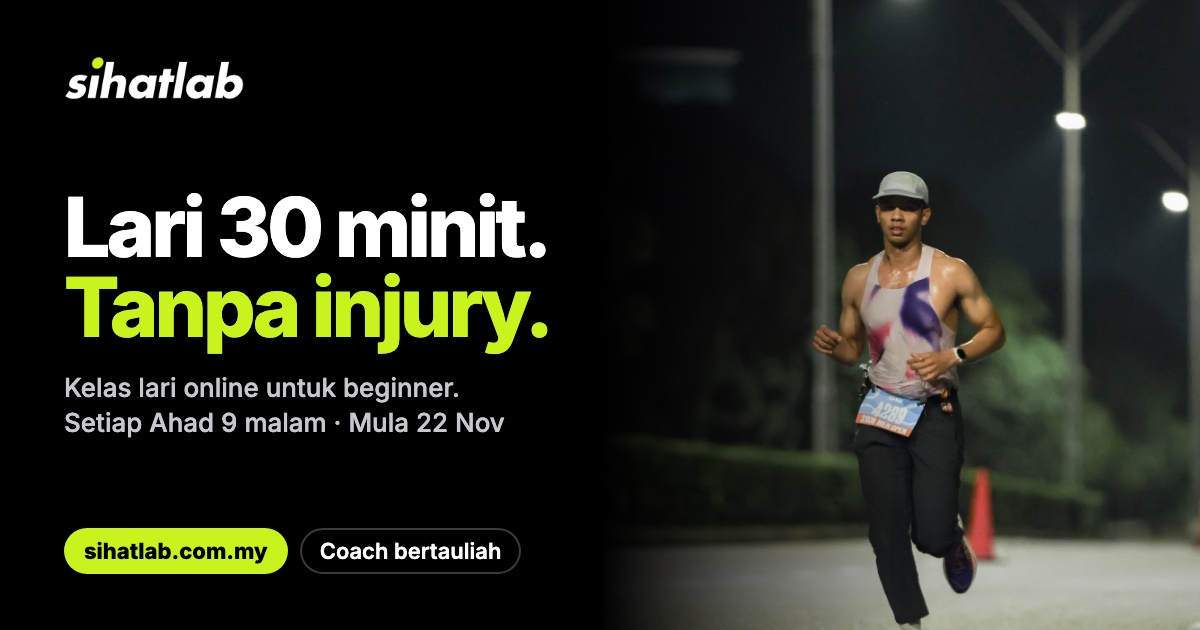
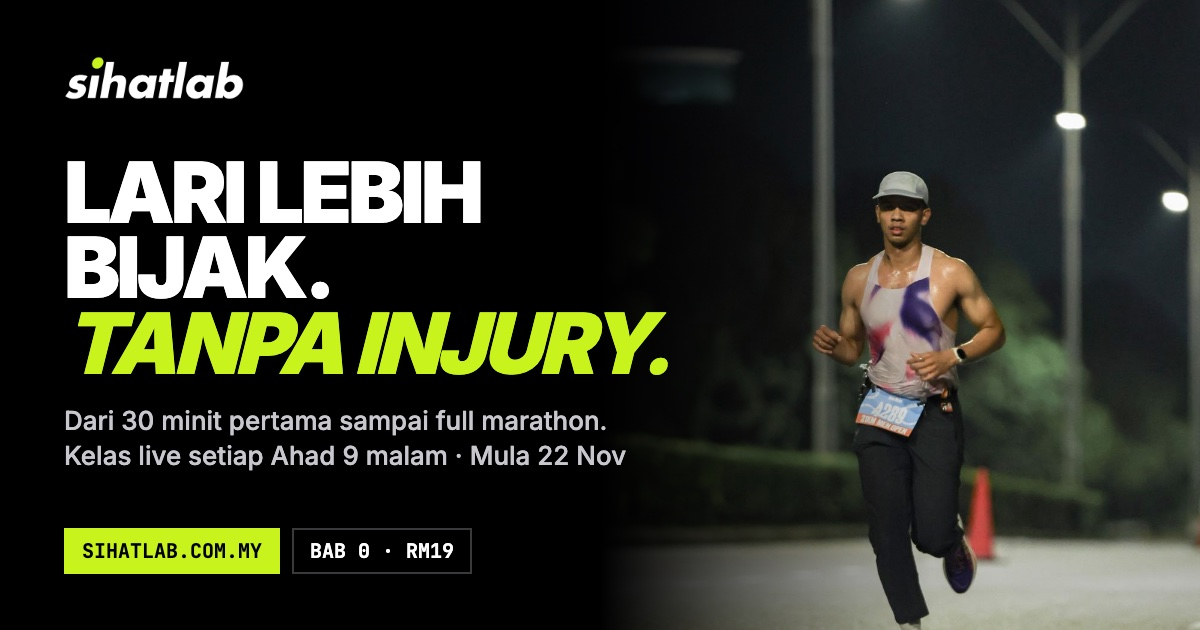
Pasaran lebih luas: Lari lebih bijak, dua pintu, kad untuk runner 10K-full

Changed region(s): [[0.0308, 0.2413, 0.555, 0.754], [0.0308, 0.8444, 0.4317, 0.9048]]

diff --git a/index.html b/index.html
@@ -3,14 +3,14 @@
 <head>
 <meta charset="utf-8">
 <meta name="viewport" content="width=device-width,initial-scale=1,viewport-fit=cover">
-<title>Kelas Lari SihatLab (Run 30) · Lari 30 minit, tanpa injury</title>
-<meta name="description" content="Kelas lari online untuk beginner. 8 kelas live setiap Ahad 9 malam, dari jalan laju ke lari 30 minit non-stop. Coach bertauliah World Athletics Level 1.">
+<title>Kelas Lari SihatLab (Run 30) · Lari lebih bijak, tanpa injury</title>
+<meta name="description" content="Kelas lari online untuk semua tahap, dari 30 minit pertama sampai full marathon. 8 kelas live setiap Ahad 9 malam: zon heart rate, MAF, VDOT, susun latihan, injury dan race. Coach World Athletics Level 1.">
 <meta property="og:title" content="Kelas Lari SihatLab (Run 30)">
-<meta property="og:description" content="Dari jalan laju ke lari 30 minit non-stop, tanpa injury. 8 kelas live online, setiap Ahad 9 malam.">
+<meta property="og:description" content="Lari lebih bijak, tanpa injury. Dari 30 minit pertama sampai full marathon. 8 kelas live online, setiap Ahad 9 malam.">
 <meta property="og:image" content="https://sihatlab.com.my/og.jpg">
 <meta property="og:image:width" content="1200">
 <meta property="og:image:height" content="630">
-<meta property="og:image:alt" content="Lari 30 minit. Tanpa injury. Kelas lari online SihatLab">
+<meta property="og:image:alt" content="Lari lebih bijak. Tanpa injury. Kelas lari online SihatLab">
 <meta name="twitter:card" content="summary_large_image">
 <link rel="apple-touch-icon" href="apple-touch-icon.png">
 <meta property="og:url" content="https://sihatlab.com.my/">
@@ -129,7 +129,7 @@ nav .btn{padding:8px 16px;font-size:14px}
 @media (max-width:860px){.kpis{grid-template-columns:repeat(2,minmax(0,1fr))}}
 
 /* audience */
-.who{display:grid;grid-template-columns:repeat(4,minmax(0,1fr));gap:16px;margin-top:48px}
+.who{display:grid;grid-template-columns:repeat(3,minmax(0,1fr));gap:16px;margin-top:48px}
 .who .card{padding:28px}
 .who h3{font-size:20px;font-weight:700;letter-spacing:-.02em;margin-top:28px}
 .who p{color:var(--grey);font-size:15px;margin-top:6px}
@@ -467,6 +467,13 @@ nav .btn{font-family:var(--mono);font-size:12px!important;text-transform:upperca
 .learn h3{grid-column:2;font-size:22px!important;font-weight:800!important}
 .learn .card > p:not(.when):not(.bab){grid-column:2}
 @media (max-width:720px){.learn .card{grid-template-columns:40px minmax(0,1fr);column-gap:12px}.learn .card::before{font-size:22px}.learn .when{grid-column:2;grid-row:auto;justify-self:start;font-size:13px!important}}
+/* hero doors */
+.hero .door{flex-direction:column;align-items:flex-start;gap:2px;padding:14px 20px}
+.hero .door small{font-family:var(--mono);font-size:11px;font-weight:500;text-transform:uppercase;letter-spacing:.04em;opacity:.8}
+.hero .door-o{background:transparent;color:#fff;border:1px solid #ffffff66}
+.hero .door-o:hover{border-color:var(--volt)}
+@media (max-width:860px){.who{grid-template-columns:repeat(2,minmax(0,1fr))!important}}
+@media (max-width:480px){.who{grid-template-columns:1fr!important}.hero .door{width:100%}}
 </style>
 </head>
 <body>
@@ -492,11 +499,11 @@ nav .btn{font-family:var(--mono);font-size:12px!important;text-transform:upperca
   <div class="photo" role="img" aria-label="Coach Dollah berlari dalam half marathon"></div>
   <div class="wrap">
     <span class="pill" data-en="Run 30 · Cohort 01 · Online · Sun 9pm · 22.11 → 17.01">Run 30 · Cohort 01 · Online · Ahad 9 malam · 22.11 → 17.01</span>
-    <h1 data-en="Run<br>30 minutes.<br><em>No<br>injuries.</em>">Lari<br>30 minit.<br><em>Tanpa<br>injury.</em></h1>
-    <p class="sub" data-en="You don’t need to be an athlete to start running. You don’t need an expensive watch. From walking to running your first 5K non-stop!">Tak perlu jadi athlete untuk start berlari. Tak perlu jam yang mahal. Dari berjalan ke first 5KM lari non stop!</p>
+    <h1 data-en="Run<br>smarter.<br><em>No<br>injuries.</em>">Lari<br>lebih bijak.<br><em>Tanpa<br>injury.</em></h1>
+    <p class="sub" data-en="Just starting out or already finished a full marathon, learn to run by a plan, not by feel. From your first 30 minutes to 42K.">Baru nak mula atau dah habis full marathon, belajar lari ikut pelan, bukan ikut rasa. Dari 30 minit pertama sampai 42KM.</p>
     <div style="display:flex;gap:16px;align-items:center;flex-wrap:wrap">
-      <a class="btn btn-w" href="#harga" data-en="Let’s start">Jom start</a>
-      <span style="color:var(--soft);font-size:15px" data-en="First class just RM19 · a free guideline with every ticket">Kelas pertama RM19 je · semua dapat guideline free</span>
+      <a class="btn btn-w door" href="#harga"><span data-en="New to running">Baru nak mula</span><small data-en="Chapter 0 · RM19">Bab 0 · RM19</small></a>
+      <a class="btn door door-o" href="#belajar"><span data-en="Already running">Dah lari, nak lebih bijak</span><small data-en="Chapters 1–7 · 5K to full">Bab 1–7 · 5K sampai full</small></a>
     </div>
     <div class="creds stats">
       <span><b>4.6/5</b><i data-en="from 19 students">dari 19 peserta</i></span>
@@ -507,7 +514,7 @@ nav .btn{font-family:var(--mono);font-size:12px!important;text-transform:upperca
   </div>
 </header>
 
-<div class="marquee" aria-hidden="true"><div class="mq-track"><span data-en="RUN 30 MINUTES ✱ NO INJURIES ✱ RUN 30 ✱ SUNDAYS 9PM ✱ STARTS 22 NOV ✱ ">LARI 30 MINIT ✱ TANPA INJURY ✱ RUN 30 ✱ SETIAP AHAD 9 MALAM ✱ MULA 22 NOV ✱ </span><span data-en="RUN 30 MINUTES ✱ NO INJURIES ✱ RUN 30 ✱ SUNDAYS 9PM ✱ STARTS 22 NOV ✱ ">LARI 30 MINIT ✱ TANPA INJURY ✱ RUN 30 ✱ SETIAP AHAD 9 MALAM ✱ MULA 22 NOV ✱ </span><span data-en="RUN 30 MINUTES ✱ NO INJURIES ✱ RUN 30 ✱ SUNDAYS 9PM ✱ STARTS 22 NOV ✱ ">LARI 30 MINIT ✱ TANPA INJURY ✱ RUN 30 ✱ SETIAP AHAD 9 MALAM ✱ MULA 22 NOV ✱ </span><span data-en="RUN 30 MINUTES ✱ NO INJURIES ✱ RUN 30 ✱ SUNDAYS 9PM ✱ STARTS 22 NOV ✱ ">LARI 30 MINIT ✱ TANPA INJURY ✱ RUN 30 ✱ SETIAP AHAD 9 MALAM ✱ MULA 22 NOV ✱ </span></div></div>
+<div class="marquee" aria-hidden="true"><div class="mq-track"><span data-en="RUN SMARTER ✱ NO INJURIES ✱ 5K ✱ 10K ✱ HALF ✱ FULL ✱ SUNDAYS 9PM ✱ STARTS 22 NOV ✱ ">LARI LEBIH BIJAK ✱ TANPA INJURY ✱ 5K ✱ 10K ✱ HALF ✱ FULL ✱ SETIAP AHAD 9 MALAM ✱ MULA 22 NOV ✱ </span><span data-en="RUN SMARTER ✱ NO INJURIES ✱ 5K ✱ 10K ✱ HALF ✱ FULL ✱ SUNDAYS 9PM ✱ STARTS 22 NOV ✱ ">LARI LEBIH BIJAK ✱ TANPA INJURY ✱ 5K ✱ 10K ✱ HALF ✱ FULL ✱ SETIAP AHAD 9 MALAM ✱ MULA 22 NOV ✱ </span><span data-en="RUN SMARTER ✱ NO INJURIES ✱ 5K ✱ 10K ✱ HALF ✱ FULL ✱ SUNDAYS 9PM ✱ STARTS 22 NOV ✱ ">LARI LEBIH BIJAK ✱ TANPA INJURY ✱ 5K ✱ 10K ✱ HALF ✱ FULL ✱ SETIAP AHAD 9 MALAM ✱ MULA 22 NOV ✱ </span><span data-en="RUN SMARTER ✱ NO INJURIES ✱ 5K ✱ 10K ✱ HALF ✱ FULL ✱ SUNDAYS 9PM ✱ STARTS 22 NOV ✱ ">LARI LEBIH BIJAK ✱ TANPA INJURY ✱ 5K ✱ 10K ✱ HALF ✱ FULL ✱ SETIAP AHAD 9 MALAM ✱ MULA 22 NOV ✱ </span></div></div>
 
 <section class="pain">
   <div class="wrap">
@@ -657,13 +664,15 @@ nav .btn{font-family:var(--mono);font-size:12px!important;text-transform:upperca
 <section class="mist">
   <div class="wrap">
     <p class="eyebrow" data-en="Which one are you?">Kau yang mana?</p>
-    <h2 style="margin-top:12px" data-en="You don’t need to be an athlete.">Tak perlu jadi atlet.</h2>
+    <h2 style="margin-top:12px" data-en="From zero to 42K.">Dari kosong sampai 42KM.</h2>
     <p class="lead" style="margin-top:16px" data-en="Tap the one that sounds most like you.">Tekan kad yang paling kena dengan kau.</p>
     <div class="who">
       <button type="button" class="card wp" data-who="0" aria-pressed="false"><p class="num">01</p><h3 data-en="Never run before">Tak pernah lari</h3><p data-en="Chapter 0 starts with brisk walking, then run-walk.">Bab 0 start dengan jalan laju, lepas tu lari-jalan.</p><span class="wbtn" data-en="That’s me">Ni aku</span></button>
       <button type="button" class="card wp" data-who="1" aria-pressed="false"><p class="num">02</p><h3 data-en="Always getting injured">Selalu cedera</h3><p data-en="Knees, shins, ankles. We find the cause and fix it.">Lutut, shin, buku lali. Kita cari punca dan betulkan.</p><span class="wbtn" data-en="That’s me">Ni aku</span></button>
       <button type="button" class="card wp" data-who="2" aria-pressed="false"><p class="num">03</p><h3 data-en="Want to lose weight">Nak turun berat</h3><p data-en="Run in low heart rate zones, consistently every week.">Lari zon heart rate rendah, konsisten tiap minggu.</p><span class="wbtn" data-en="That’s me">Ni aku</span></button>
       <button type="button" class="card wp" data-who="3" aria-pressed="false"><p class="num">04</p><h3 data-en="Chasing your first 5K">Nak 5KM pertama</h3><p data-en="A 12-week plan with a test at the start and the end.">Pelan 12 minggu, ada ujian awal dan akhir.</p><span class="wbtn" data-en="That’s me">Ni aku</span></button>
+      <button type="button" class="card wp" data-who="4" aria-pressed="false"><p class="num">05</p><h3 data-en="Running 10K or a half, but stuck">Dah lari 10K atau half, tapi stuck</h3><p data-en="Pace won’t improve, HR always high. We plan it by zones and VDOT.">Pace tak naik, HR selalu tinggi. Kita susun ikut zon dan VDOT.</p><span class="wbtn" data-en="That’s me">Ni aku</span></button>
+      <button type="button" class="card wp" data-who="5" aria-pressed="false"><p class="num">06</p><h3 data-en="Getting ready for a full marathon">Nak persediaan full marathon</h3><p data-en="Build the week, the long runs, the fuel and race day.">Susun minggu latihan, long run, makan dan hari race.</p><span class="wbtn" data-en="That’s me">Ni aku</span></button>
     </div>
     <div class="whopick" id="whopick" hidden aria-live="polite"></div>
     <div class="band" style="margin-top:20px" role="img" aria-label="Peserta kelas SihatLab bergambar bersama coach">
@@ -926,12 +935,16 @@ nav .btn{font-family:var(--mono);font-size:12px!important;text-transform:upperca
     ['Mula dengan Bab 0','Kelas pertama khas untuk yang tak pernah lari: saringan kesihatan, mitos, dan pelan dari jalan laju ke lari 30 minit. Cuba kelas pertama dulu, promo RM19 je (Ahad 22 Nov). Suka? Upgrade ke bundle, RM19 tu ditolak.','Simpan tempat Bab 0','bab0'],
     ['Ambil bundle 8 kelas','Cedera selalunya datang dari naik jarak atau masa terlalu cepat. Bab 5 ajar susun minggu latihan, Bab 7 ajar kenal tanda awal injury dan strength asas. Dua-dua perlukan pelan, bukan satu kelas je.','Simpan tempat bundle','bundle'],
     ['Ambil bundle 8 kelas','Bab 2 ajar lari dalam zon heart rate rendah, Bab 6 pasal makan untuk lari. Yang paling penting ialah konsisten setiap minggu, dan bundle bagi korang 8 kelas dengan group.','Simpan tempat bundle','bundle'],
-    ['Ambil bundle 8 kelas','Bab 0 sampai Bab 7, dengan ujian minggu 1 dan minggu 12 supaya korang nampak progress sendiri. Buat kerja tapi tak improve? Duit balik 100%.','Simpan tempat bundle','bundle']],
+    ['Ambil bundle 8 kelas','Bab 0 sampai Bab 7, dengan ujian minggu 1 dan minggu 12 supaya korang nampak progress sendiri. Buat kerja tapi tak improve? Duit balik 100%.','Simpan tempat bundle','bundle'],
+    ['Ambil bundle 8 kelas','Bab 2 (zon heart rate), Bab 3 (MAF) dan Bab 4 (pace dan VDOT) terus jawab kenapa pace tak naik. Kau dapat pace latihan sendiri dari result race, dan ujian minggu 1 vs 12 untuk tengok progress. Bab 0 ada rakaman, skip je kalau tak perlu.','Simpan tempat bundle','bundle'],
+    ['Ambil bundle 8 kelas','Bab 5 susun minggu latihan dan long run, Bab 6 makan dan air untuk larian jauh, Bab 7 taper dan persediaan hari race. Nak ambil Bab tertentu je? Walk-in RM39 setiap satu.','Simpan tempat bundle','bundle']],
    en:[
     ['Start with Chapter 0','The first class is built for people who have never run: health screening, myths, and a plan from brisk walking to running 30 minutes. Try the first class first, just RM19 on promo (Sunday 22 Nov). Like it? Upgrade to the bundle and your RM19 comes off.','Save my Chapter 0 spot','bab0'],
     ['Take the 8-class bundle','Injuries usually come from adding distance or time too quickly. Chapter 5 shows you how to plan your training week, Chapter 7 covers early injury signs and basic strength. Both need a plan, not just one class.','Save my bundle spot','bundle'],
     ['Take the 8-class bundle','Chapter 2 is about running in low heart rate zones, Chapter 6 is about eating for running. What matters most is showing up every week, and the bundle gives you 8 classes with a group.','Save my bundle spot','bundle'],
-    ['Take the 8-class bundle','Chapters 0 to 7, with tests in week 1 and week 12 so you can see your own progress. Do the work and don’t improve? 100% of your money back.','Save my bundle spot','bundle']]};
+    ['Take the 8-class bundle','Chapters 0 to 7, with tests in week 1 and week 12 so you can see your own progress. Do the work and don’t improve? 100% of your money back.','Save my bundle spot','bundle'],
+    ['Take the 8-class bundle','Chapter 2 (heart rate zones), Chapter 3 (MAF) and Chapter 4 (pace and VDOT) answer exactly why your pace is stuck. You get your own training paces from a race result, and tests in week 1 vs week 12 to see progress. Chapter 0 has a replay, skip it if you don’t need it.','Save my bundle spot','bundle'],
+    ['Take the 8-class bundle','Chapter 5 builds your training week and long runs, Chapter 6 covers fuel and water for long runs, Chapter 7 covers the taper and race-day prep. Only need certain chapters? Walk in for RM39 each.','Save my bundle spot','bundle']]};
   var who=-1, pick=document.getElementById('whopick');
   function renderWho(){
     if(who<0){pick.hidden=true;return;}
